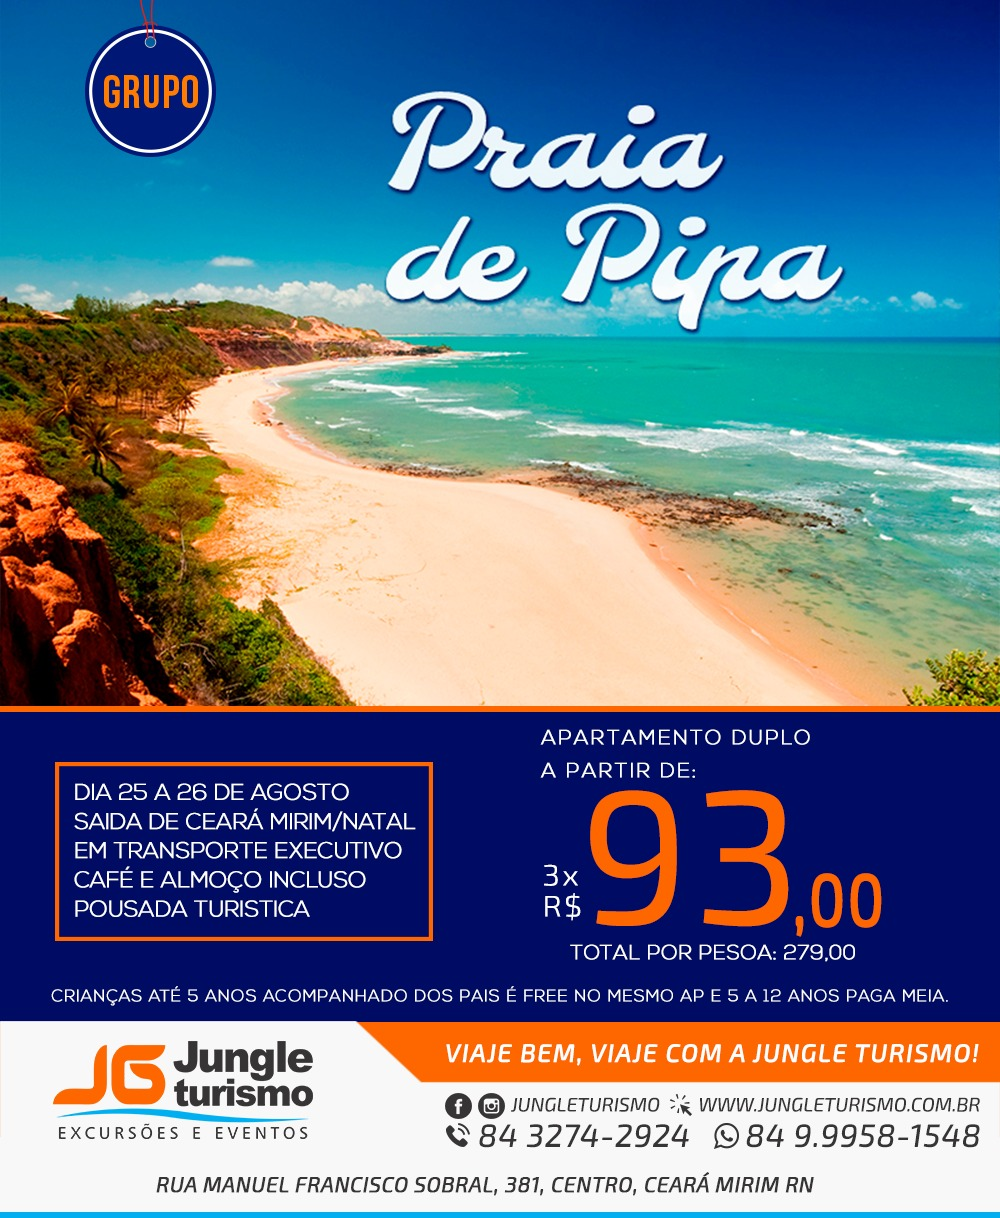
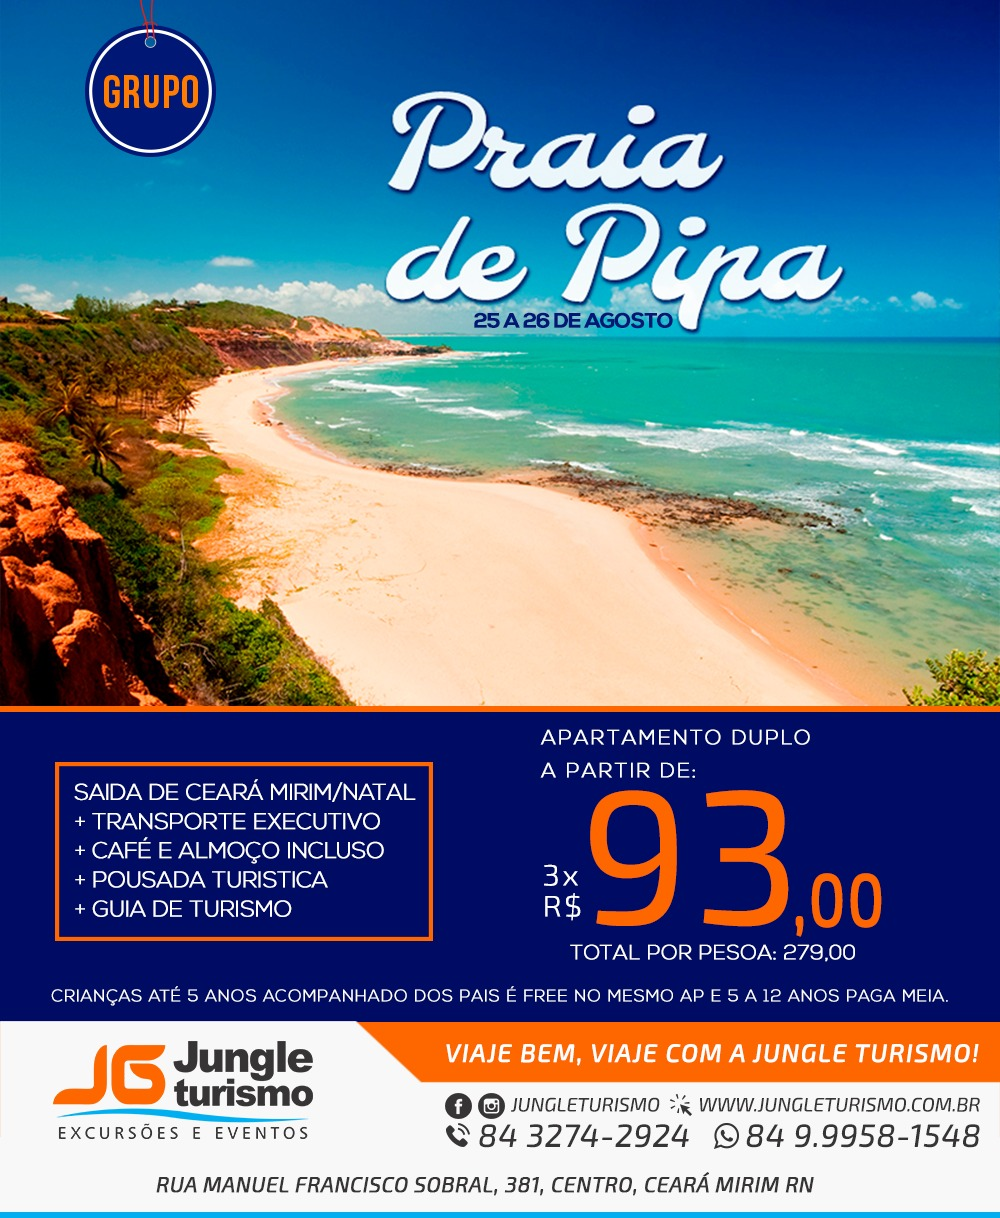
altera viagem praia pipa

Changed region(s): [[0.062, 0.624, 0.403, 0.78], [0.465, 0.2496, 0.682, 0.2808]]

diff --git a/praia-pipa.html b/praia-pipa.html
@@ -135,11 +135,13 @@
                <hr>
                <h3>período</h3>
                <p>25 a 26/08/2018<br>
-                   Saída de Ceará-Mirim em transporte executivo
+                   Saída de Ceará-Mirim/Natal em transporte executivo
                </p>
                <h3>pacote inclui:</h3>
                <p>Pousada Turística<br>
+               Transporte executivo<br>
                Café e Almoço Incluso<br>
+               Guia de Turismo<br>
                Crianças de até 5 anos acompanhado dos pais é free no mesmo AP<br>
                Crianças de 5 a 12 anos paga meia<br>
                Para mais informações leia a imagem em anexo ou entre em contato conosco</p>
